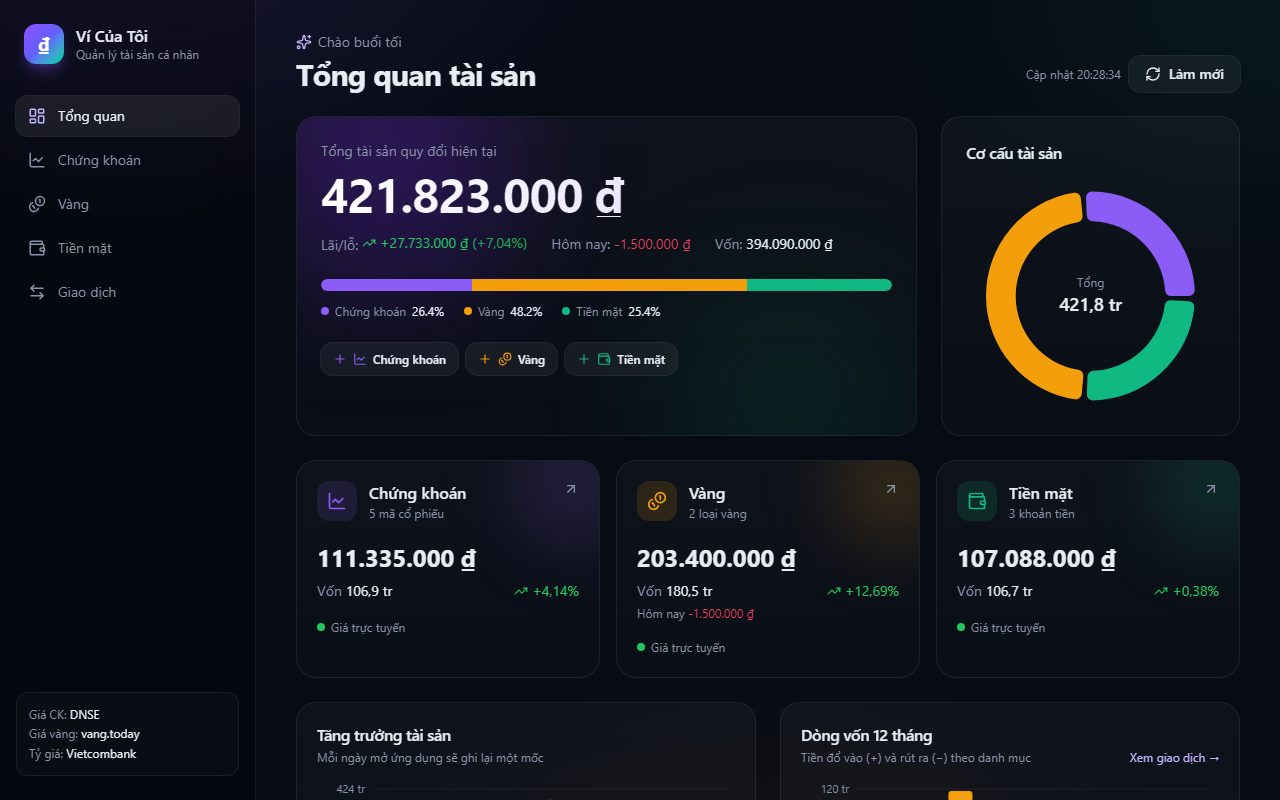
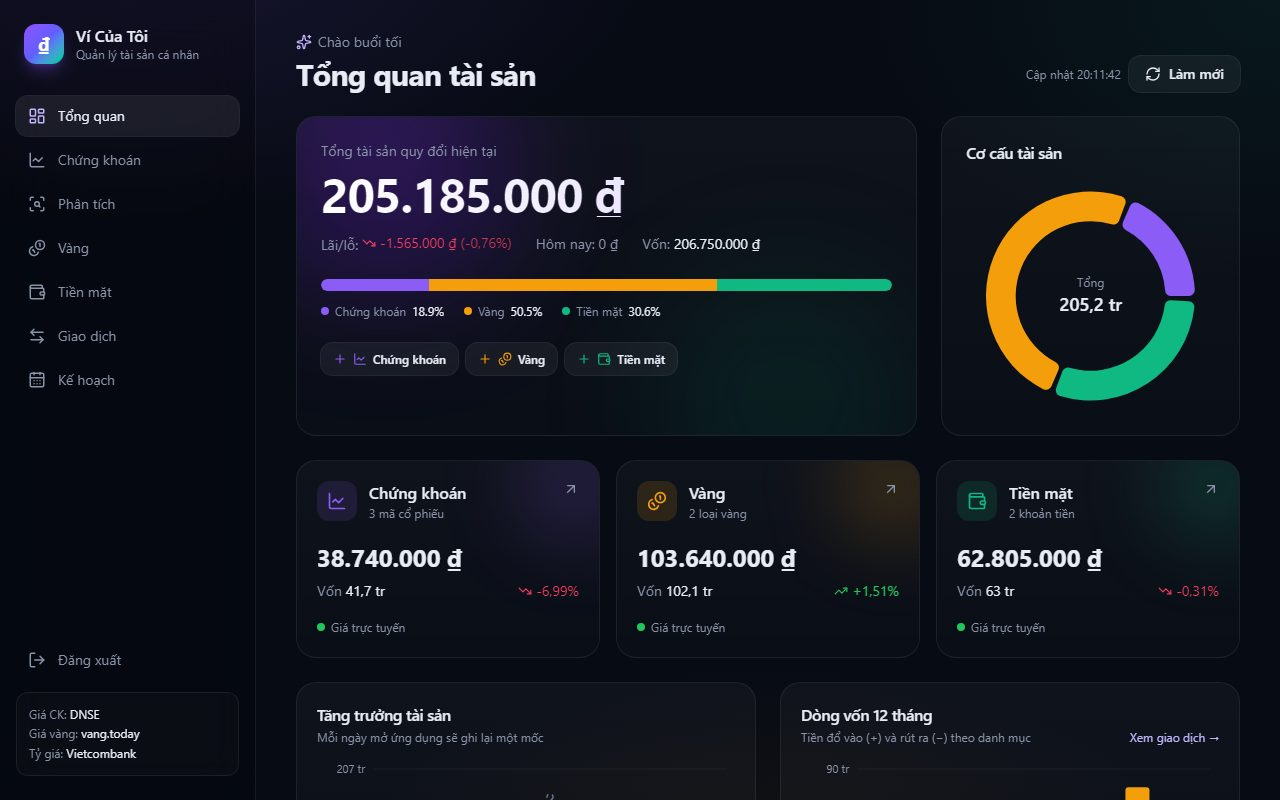
Update finance-tracker: stock analysis, weekly planner, login form

diff --git a/data/projects.js b/data/projects.js
@@ -308,28 +308,33 @@ window.PROJECTS = [
   {
     slug: "finance-tracker",
     name: "Ví Của Tôi",
-    tagline: "Quản lý tài sản cá nhân: chứng khoán, vàng, tiền mặt, quy đổi ra VND theo giá hiện tại.",
+    tagline: "Quản lý tài sản cá nhân, phân tích cổ phiếu và thời khoá biểu theo tuần.",
     category: "app",
     accent: "#8b5cf6",
     status: "Online",
-    updated: "2026-11-12",
+    updated: "2026-11-24",
     repo: "https://github.com/LeBao2808/finance-tracker",
     demo: "https://vi-cua-toi.vercel.app",
     demoNote:
       "Bản online chứa dữ liệu cá nhân nên được khoá bằng mật khẩu. Muốn dùng thử, hãy clone repo và chạy trên máy của bạn.",
     folder: "finance-tracker",
-    stack: ["Next.js 15", "React 19", "TypeScript", "Tailwind v4", "MongoDB / Mongoose", "Recharts", "DNSE OpenAPI"],
-    tags: ["finance", "chứng khoán", "vàng", "portfolio", "dashboard"],
+    stack: ["Next.js 15", "React 19", "TypeScript", "Tailwind v4", "MongoDB / Mongoose", "Recharts", "DNSE OpenAPI", "VNDirect API"],
+    tags: ["finance", "chứng khoán", "phân tích kỹ thuật", "vàng", "portfolio", "dashboard", "thời khoá biểu"],
     cover: "assets/finance-tracker/dashboard.jpg",
     gallery: [
       { src: "assets/finance-tracker/dashboard.jpg", caption: "Tổng quan: tổng tài sản, cơ cấu và từng danh mục" },
       { src: "assets/finance-tracker/stocks.jpg", caption: "Danh mục cổ phiếu với giá trực tuyến từ DNSE" },
+      { src: "assets/finance-tracker/analysis.jpg", caption: "Phân tích một mã: cơ bản, kỹ thuật và biểu đồ" },
+      { src: "assets/finance-tracker/plan.jpg", caption: "Kế hoạch: thời khoá biểu theo tuần, kéo thả để sắp xếp" },
       { src: "assets/finance-tracker/gold.jpg", caption: "Vàng đang giữ và bảng giá vàng hôm nay" },
       { src: "assets/finance-tracker/transactions.jpg", caption: "Lịch sử giao dịch và dòng vốn theo tháng" },
     ],
     summary:
-      "Ghi lại các lần mua bán cổ phiếu, vàng và nạp rút tiền, app tự tính số đang nắm giữ, giá vốn bình quân, lãi lỗ và tổng tài sản quy ra VND theo giá thị trường. Giá cổ phiếu lấy từ DNSE OpenAPI, giá vàng từ vang.today (SJC, PNJ, DOJI, Bảo Tín…), tỷ giá từ Vietcombank.",
+      "Ghi lại các lần mua bán cổ phiếu, vàng và nạp rút tiền, app tự tính số đang nắm giữ, giá vốn bình quân, lãi lỗ và tổng tài sản quy ra VND theo giá thị trường. Giá cổ phiếu lấy từ DNSE OpenAPI, giá vàng từ vang.today (SJC, PNJ, DOJI, Bảo Tín…), tỷ giá từ Vietcombank. Ngoài ra có trang phân tích từng mã cổ phiếu và thời khoá biểu cá nhân.",
     features: [
+      "Phân tích cổ phiếu: P/E, P/B so với ngành, EPS, ROE, FCF, DCF; MA, RSI, MACD, Bollinger, hỗ trợ/kháng cự, Fibonacci, mô hình nến và giá",
+      "Chấm mã theo 8 chiến lược (giá trị, tăng trưởng, CANSLIM, lướt sóng…) và tính khối lượng mua theo mức lỗ chấp nhận",
+      "Kế hoạch tuần: thể loại việc dùng lại nhiều lần, kéo thả, lặp hằng tuần, danh sách việc hôm nay",
       "Tổng tài sản quy đổi VND, lãi/lỗ, thay đổi trong ngày và biểu đồ cơ cấu 3 danh mục",
       "Chứng khoán: từng mã với khối lượng, giá vốn TB, giá hiện tại, giá trị, lãi/lỗ, tỷ trọng; tổng cộng cả danh mục",
       "Vàng: định giá theo giá mua vào của tiệm, nhập theo lượng hoặc chỉ, có bảng giá vàng hôm nay",
@@ -355,6 +360,22 @@ window.PROJECTS = [
         ],
       },
       {
+        title: "Phân tích cổ phiếu",
+        steps: [
+          "Vào **Phân tích**, nhập mã 3 ký tự (ví dụ HPG) rồi bấm **Phân tích**.",
+          "Xem tín hiệu cơ bản, kỹ thuật và các chiến lược hợp với mã; chỉnh vốn, giá cắt lỗ và giả định DCF ở cuối trang.",
+          "Kết quả tính tự động theo quy tắc, chỉ để tham khảo, không phải khuyến nghị mua bán.",
+        ],
+      },
+      {
+        title: "Lập kế hoạch tuần",
+        steps: [
+          "Vào **Kế hoạch**, bấm **Thể loại** để tạo loại việc (tên, màu, thời lượng).",
+          "Kéo thể loại vào lịch hoặc bấm ô giờ trống; chọn một lần hoặc lặp hằng tuần.",
+          "Kéo để đổi giờ; bấm dấu X hoặc kéo về khung Thể loại để bỏ ra. Trên điện thoại dùng cách bấm.",
+        ],
+      },
+      {
         title: "Xem tổng quan",
         steps: [
           "Trang **Tổng quan** cộng giá trị của cả 3 danh mục theo giá hiện tại, tự làm mới mỗi phút.",
@@ -364,7 +385,7 @@ window.PROJECTS = [
       {
         title: "Deploy lên Vercel",
         steps: [
-          "Chạy `npx vercel link`, rồi thêm các biến trong `.env.example` bằng `npx vercel env add` (nhớ đặt `APP_PASSWORD`).",
+          "Chạy `npx vercel link`, rồi thêm các biến trong `.env.example` bằng `npx vercel env add` (nhớ đặt `APP_PASSWORD` và `SESSION_SECRET`).",
           "Trên MongoDB Atlas, vào **Network Access** và cho phép `0.0.0.0/0` (Vercel không có IP cố định).",
           "Chạy `npx vercel deploy --prod`.",
         ],
@@ -377,8 +398,8 @@ window.PROJECTS = [
     ],
     notes: [
       "Giá DNSE trả về theo nghìn đồng; app đã nhân 1.000 để ra VND.",
-      "Đặt `APP_PASSWORD` trên bản deploy để khoá app bằng mật khẩu (HTTP Basic Auth); chạy local không đặt thì không cần đăng nhập.",
-      "DNSE có thể chặn request từ server nước ngoài; khi đó app dùng giá cổ phiếu gần nhất đã lưu.",
+      "Đặt `APP_PASSWORD` và `SESSION_SECRET` (chuỗi ngẫu nhiên) trên bản deploy để khoá app bằng form đăng nhập; chạy local không đặt thì không cần đăng nhập.",
+      "DNSE OpenAPI không trả lời server ngoài Việt Nam (như Vercel); khi đó app dùng API biểu đồ công khai của DNSE, rồi mới tới giá gần nhất đã lưu.",
       "`package.json` có `overrides.magic-string` để Tailwind v4 chạy được trên Node < 20.19.",
     ],
   },

diff --git a/README.md b/README.md
@@ -8,7 +8,7 @@ Danh mục tất cả project của tôi ([LeBao2808](https://github.com/LeBao28
 | [Claude Pixel BG](https://github.com/LeBao2808/claude-pixel-bg) | Extension | Hình nền pixel-art động cho claude.ai và VS Code | — |
 | [Aurora Riverside Hotel](https://github.com/LeBao2808/aurora-hotel) | App | Website khách sạn, kiến trúc microservice | [aurora-hotel-red.vercel.app](https://aurora-hotel-red.vercel.app) |
 | [TOEIC Speaking Coach](https://github.com/LeBao2808/learning-english) | App | Luyện nói/viết TOEIC với AI Gemini | [learning-english-xi.vercel.app](https://learning-english-xi.vercel.app) |
-| [Ví Của Tôi](https://github.com/LeBao2808/finance-tracker) | App | Quản lý tài sản: chứng khoán, vàng, tiền mặt quy đổi VND | [vi-cua-toi.vercel.app](https://vi-cua-toi.vercel.app) |
+| [Ví Của Tôi](https://github.com/LeBao2808/finance-tracker) | App | Quản lý tài sản, phân tích cổ phiếu, thời khoá biểu tuần | [vi-cua-toi.vercel.app](https://vi-cua-toi.vercel.app) |
 | [Làng Phòng Thủ](https://github.com/LeBao2808/village-defense-live) | Game | Game tương tác TikTok LIVE | — |
 
 ## Xem
